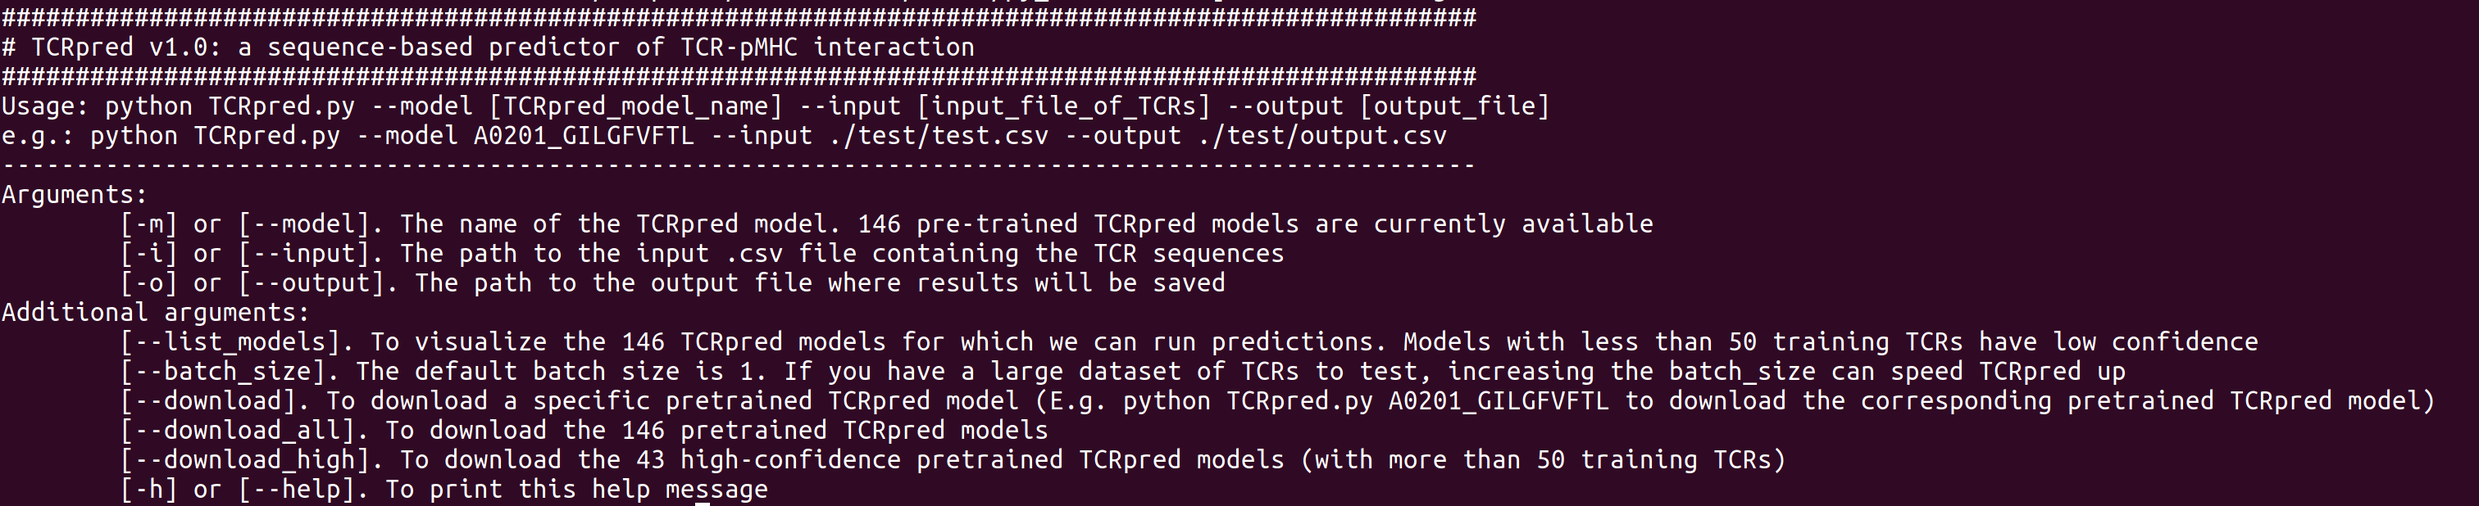
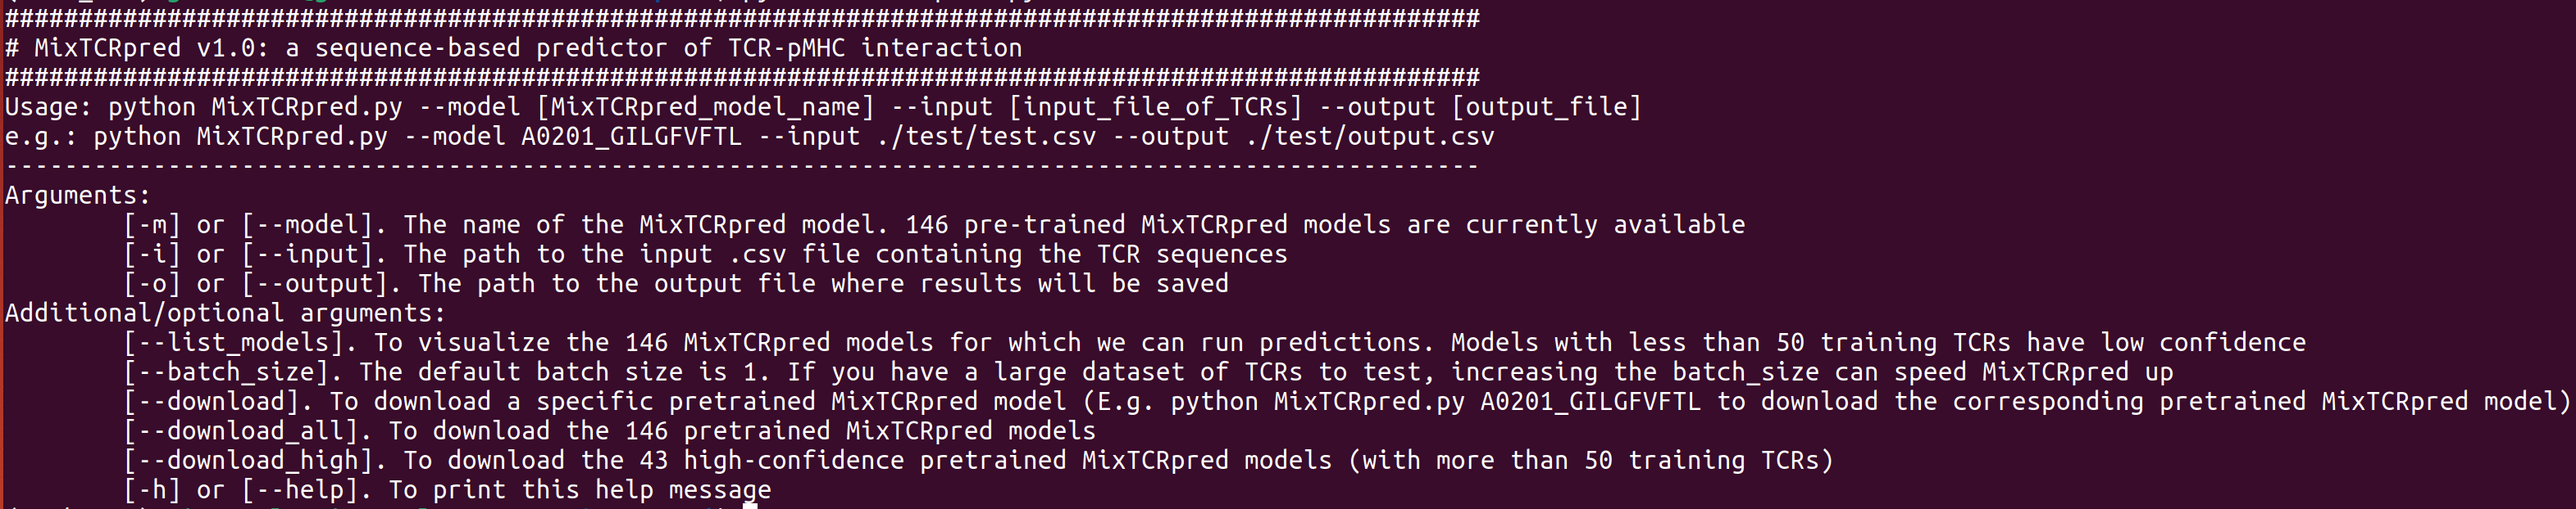
Updated Colab requirements

Changed region(s): [[0.0, 0.3997, 1.0, 1.0], [0.0, 0.0, 0.6528, 0.3382], [0.0, 0.3689, 0.0622, 0.4304]]

diff --git a/MixTCRpred.py b/MixTCRpred.py
@@ -80,7 +80,7 @@ if __name__ == '__main__':
         sys.exit(0)
 
     if args.download != None:
-        print('Downloading TCrpred model for {0})'.format(args.download))
+        print('Downloading MixTCRpred model for {0})'.format(args.download))
         url = "https://zenodo.org/record/7930623/files/model_"+args.download+".ckpt"
         if os.path.exists( os.path.join(path_pretrained_models, "model_{0}.ckpt".format(args.download))):
             print("{0} MixTCRpred model already downloaded".format(args.download))
